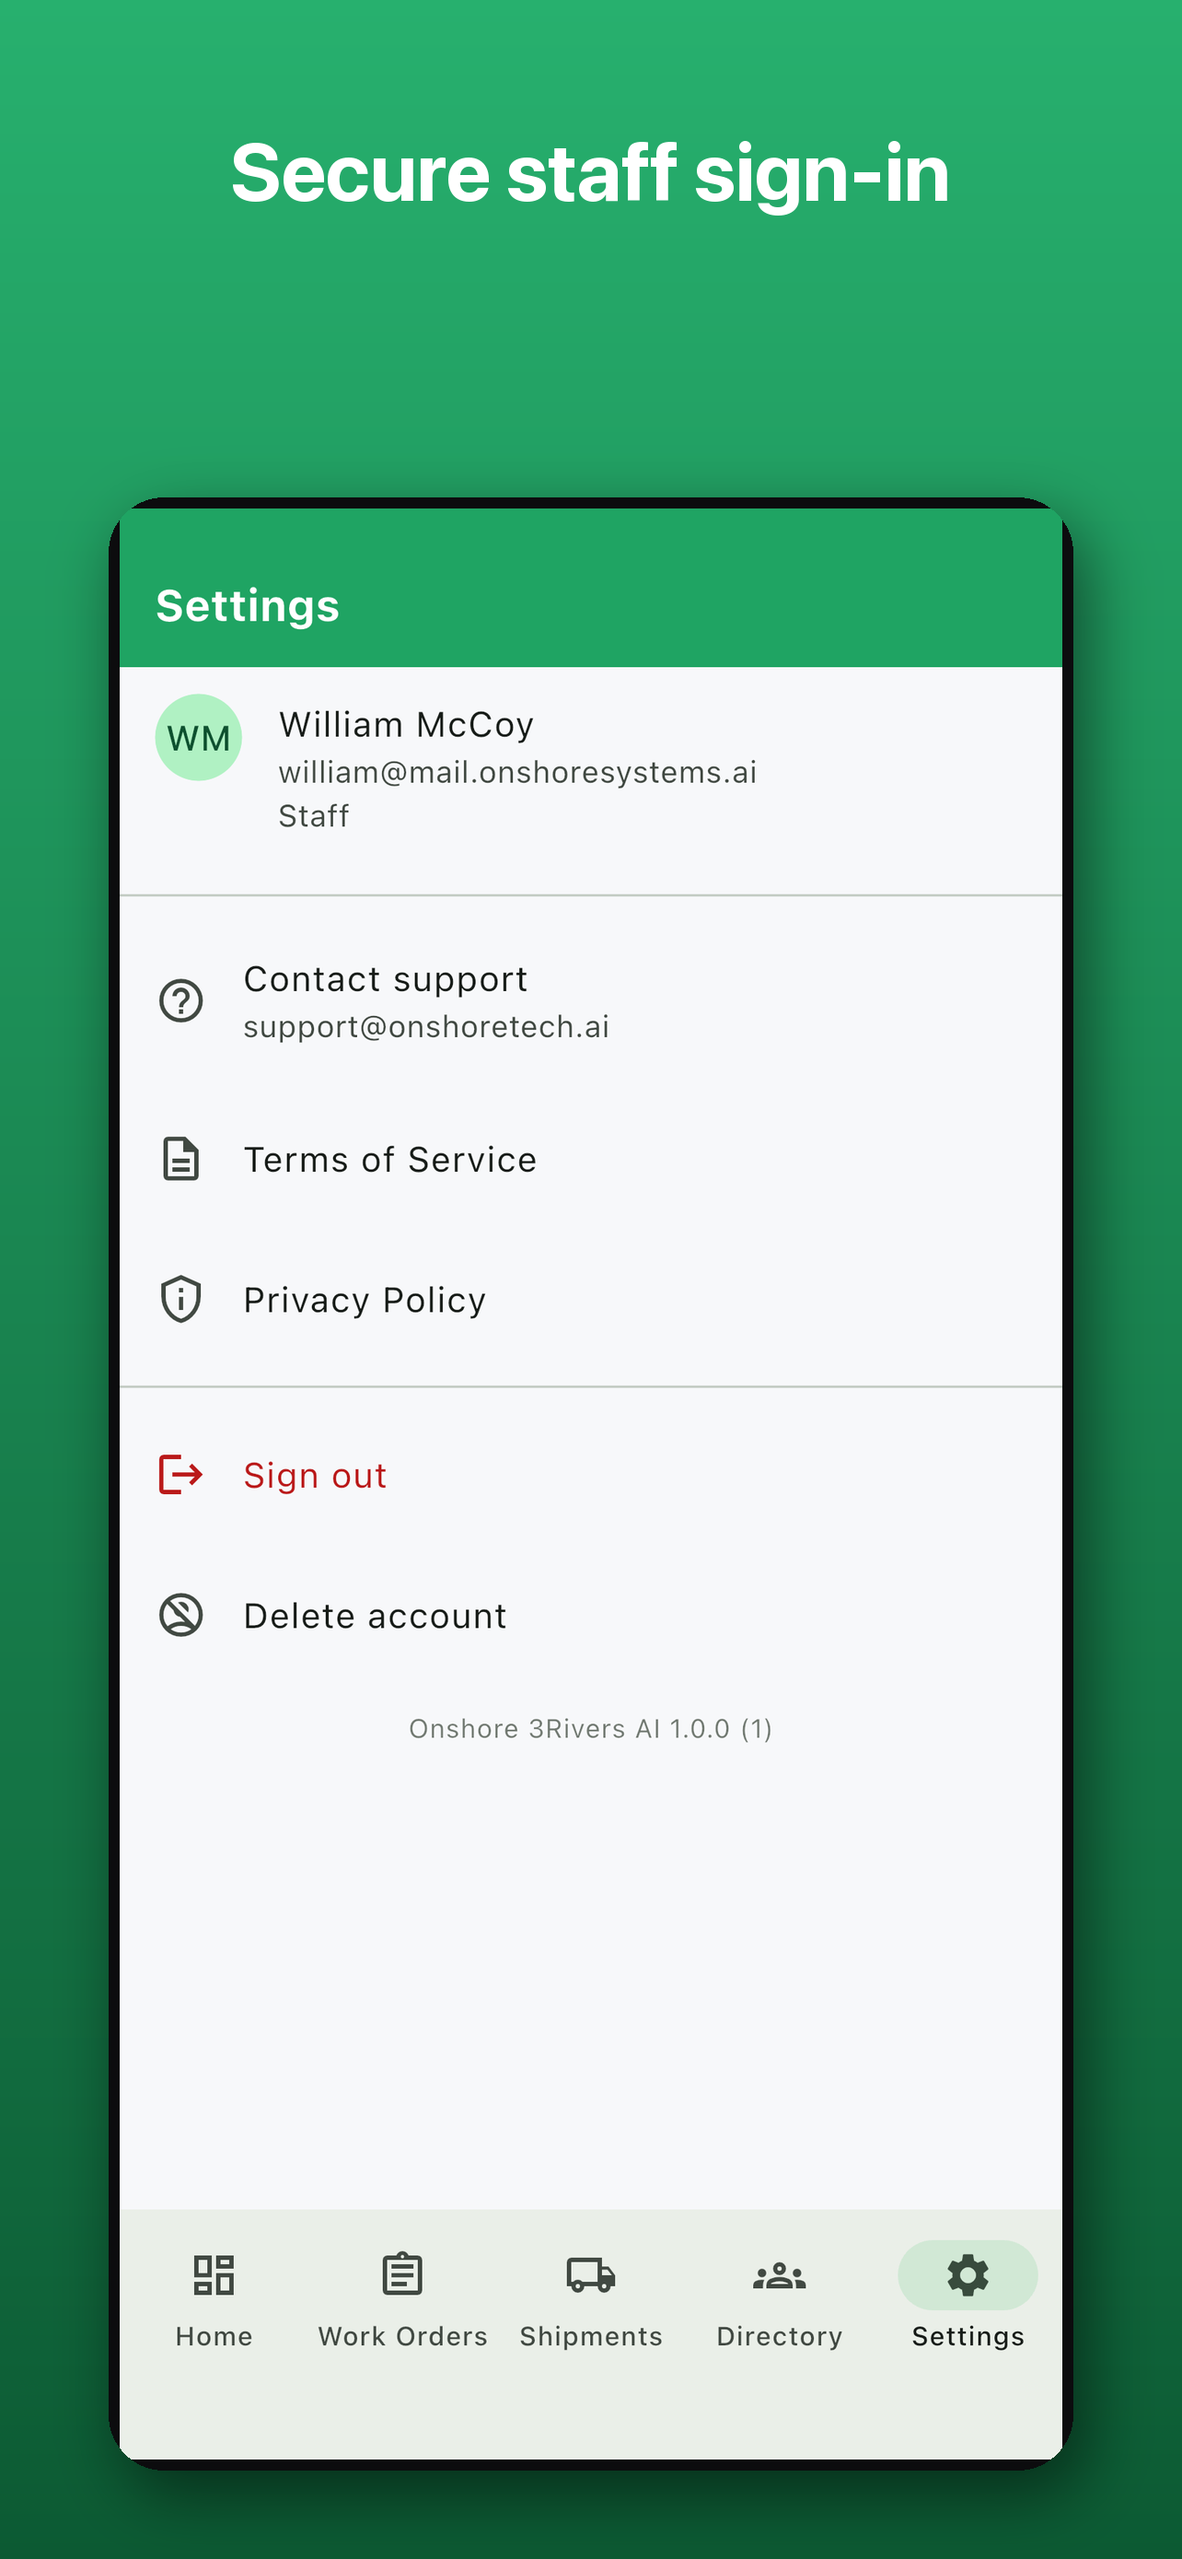
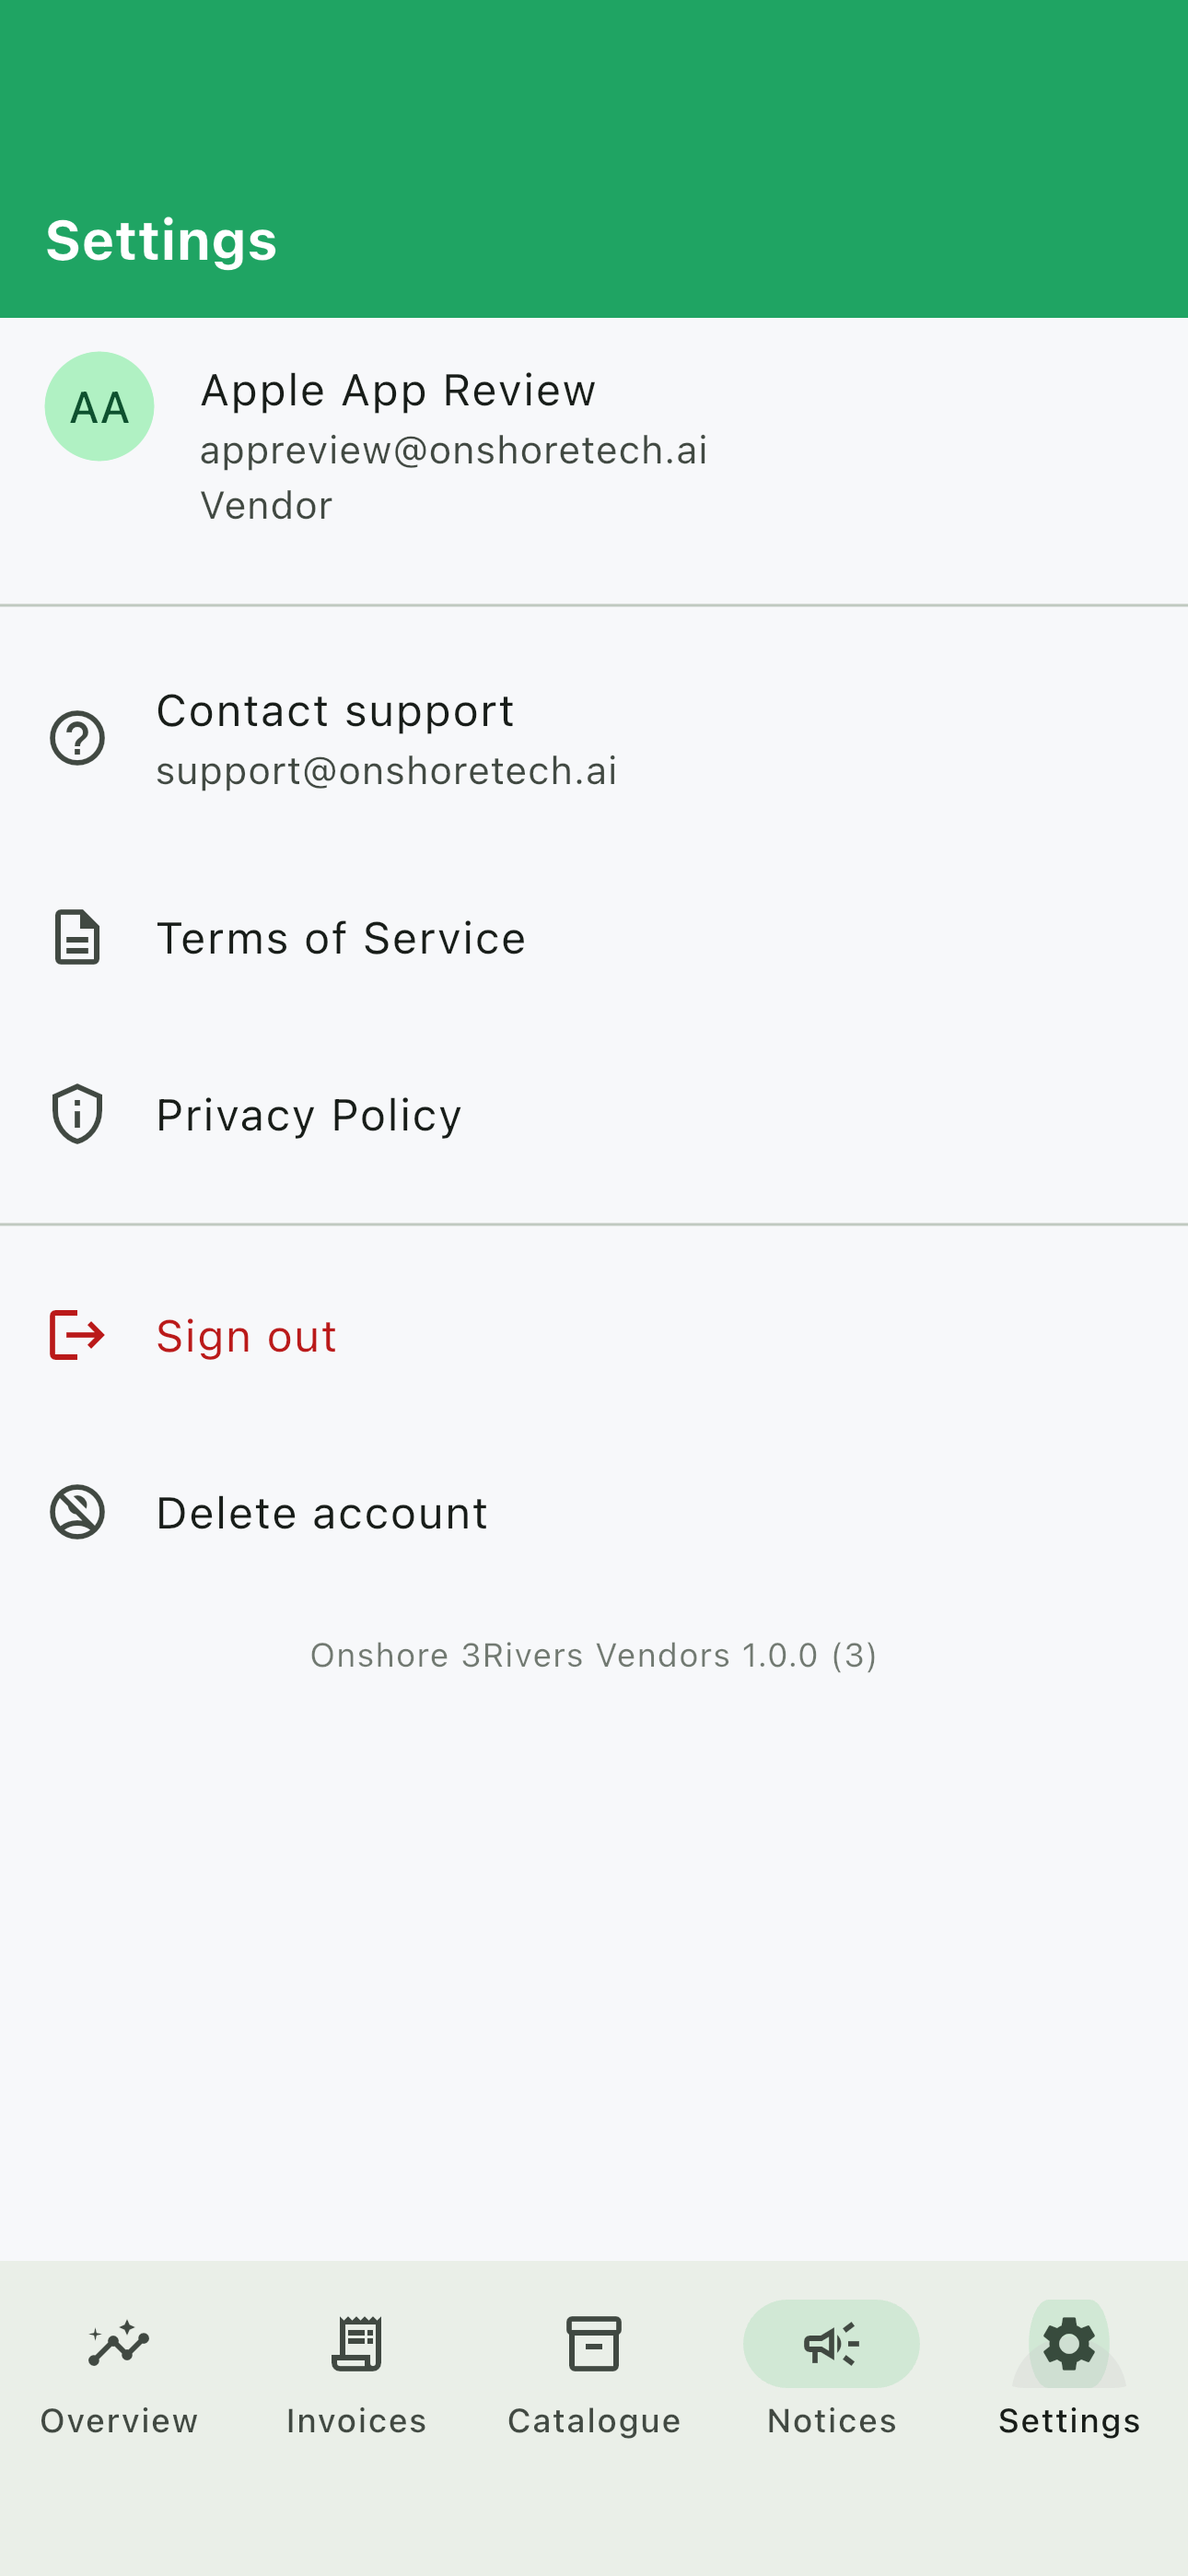
Vendors: stop labelling paid invoices past due
The first walkthrough screenshots showed four settled invoices flagged
red past due. A code comment had rationalised this -- the invoices
endpoint carries no settlement flag, so no paid/unpaid label was shown
-- but that reasoning was wrong. Saying nothing would have been honest;
rendering past due against a paid invoice is an assertion, and a false
one that reads as a broken app.

Payments carry invoice_id, so the screen now loads invoices and
payments together and joins them: settled invoices show Paid and are
excluded from the past-due filter. Confirmed on screen, not just in
assertions -- 0196, 0184 and 0178 now read Paid while 0203, genuinely
unpaid, stays red.

The walkthrough passed both before and after the bug existed, because
it asserted that live data was present without noticing it was
mislabelled. Looking at the screenshot is what caught it.

Also points the app at 3rivers-v.onshoretech.ai: the scaffold still
targeted the staff portal, which would have sent Sanctum tokens to an
API that does not understand them and failed as broken auth rather
than a wrong host.

diff --git a/lib/features/invoices/invoices_screen.dart b/lib/features/invoices/invoices_screen.dart
@@ -13,18 +13,37 @@ class InvoicesScreen extends StatefulWidget {
   State<InvoicesScreen> createState() => _InvoicesScreenState();
 }
 
+/// Invoices plus the set of invoice ids that have a payment against them.
+///
+/// The invoices endpoint carries no settlement flag, and showing "past due"
+/// from the due date alone labelled every settled invoice overdue -- four of
+/// them in the first walkthrough. Payments carry invoice_id, so the two are
+/// joined here rather than leaving the screen to assert something false.
+typedef _Ledger = ({List<Invoice> invoices, Set<String> paidIds});
+
 class _InvoicesScreenState extends State<InvoicesScreen> {
-  late Future<List<Invoice>> _future;
+  late Future<_Ledger> _future;
   bool _pastDueOnly = false;
 
   @override
   void initState() {
     super.initState();
-    _future = context.read<VendorsApi>().invoices();
+    _future = _load();
+  }
+
+  Future<_Ledger> _load() async {
+    final api = context.read<VendorsApi>();
+    final results = await Future.wait([api.invoices(), api.payments()]);
+    final invoices = results[0] as List<Invoice>;
+    final payments = results[1] as List<Payment>;
+    return (
+      invoices: invoices,
+      paidIds: payments.map((p) => p.invoiceId).where((id) => id.isNotEmpty).toSet(),
+    );
   }
 
   Future<void> _reload() {
-    setState(() => _future = context.read<VendorsApi>().invoices());
+    setState(() => _future = _load());
     return _future.then((_) {}, onError: (_) {});
   }
 
@@ -42,20 +61,24 @@ class _InvoicesScreenState extends State<InvoicesScreen> {
           ),
         ],
       ),
-      body: FutureBuilder<List<Invoice>>(
+      body: FutureBuilder<_Ledger>(
         future: _future,
-        builder: (context, snapshot) => AsyncView<List<Invoice>>(
+        builder: (context, snapshot) => AsyncView<_Ledger>(
           snapshot: snapshot,
           onRetry: _reload,
-          isEmpty: (l) => l.isEmpty,
+          isEmpty: (l) => l.invoices.isEmpty,
           emptyState: const EmptyState(
             icon: Icons.receipt_long_outlined,
             title: 'No invoices',
             detail: 'Invoices raised against your account appear here.',
           ),
-          builder: (all) {
-            final items =
-                _pastDueOnly ? all.where((i) => i.isPastDue).toList() : all;
+          builder: (ledger) {
+            bool paid(Invoice i) => ledger.paidIds.contains(i.id);
+            final items = _pastDueOnly
+                ? ledger.invoices
+                    .where((i) => i.isPastDue && !paid(i))
+                    .toList()
+                : ledger.invoices;
 
             // Filtering to an empty result is a different situation from
             // having no invoices at all, and saying so avoids the dead end of
@@ -76,7 +99,8 @@ class _InvoicesScreenState extends State<InvoicesScreen> {
             return ListView.separated(
               itemCount: items.length,
               separatorBuilder: (_, __) => const Divider(height: 1),
-              itemBuilder: (context, i) => _InvoiceTile(invoice: items[i]),
+              itemBuilder: (context, i) =>
+                  _InvoiceTile(invoice: items[i], paid: paid(items[i])),
             );
           },
         ),
@@ -87,12 +111,14 @@ class _InvoicesScreenState extends State<InvoicesScreen> {
 
 class _InvoiceTile extends StatelessWidget {
   final Invoice invoice;
-  const _InvoiceTile({required this.invoice});
+  final bool paid;
+  const _InvoiceTile({required this.invoice, required this.paid});
 
   @override
   Widget build(BuildContext context) {
     final theme = Theme.of(context);
-    final pastDue = invoice.isPastDue;
+    // A settled invoice is never past due, however old its due date.
+    final pastDue = invoice.isPastDue && !paid;
 
     return ListTile(
       contentPadding: const EdgeInsets.symmetric(horizontal: 16, vertical: 8),
@@ -109,26 +135,31 @@ class _InvoiceTile extends StatelessWidget {
             Row(
               children: [
                 Icon(
-                  pastDue
-                      ? Icons.event_busy_outlined
-                      : Icons.event_available_outlined,
+                  paid
+                      ? Icons.check_circle_outline
+                      : pastDue
+                          ? Icons.event_busy_outlined
+                          : Icons.event_available_outlined,
                   size: 15,
-                  color: pastDue
-                      ? theme.colorScheme.error
-                      : theme.colorScheme.onSurfaceVariant,
+                  color: paid
+                      ? theme.colorScheme.primary
+                      : pastDue
+                          ? theme.colorScheme.error
+                          : theme.colorScheme.onSurfaceVariant,
                 ),
                 const SizedBox(width: 5),
                 Text(
-                  // Deliberately "Due", never "Unpaid": the invoices endpoint
-                  // carries no settlement flag, so a paid/unpaid label here
-                  // would be a guess shown as fact.
-                  pastDue
-                      ? 'Due ${shortDate(invoice.dueDate)} - past due'
-                      : 'Due ${shortDate(invoice.dueDate)}',
+                  paid
+                      ? 'Paid'
+                      : pastDue
+                          ? 'Due ${shortDate(invoice.dueDate)} - past due'
+                          : 'Due ${shortDate(invoice.dueDate)}',
                   style: theme.textTheme.bodySmall?.copyWith(
-                    color: pastDue
-                        ? theme.colorScheme.error
-                        : theme.colorScheme.onSurfaceVariant,
+                    color: paid
+                        ? theme.colorScheme.primary
+                        : pastDue
+                            ? theme.colorScheme.error
+                            : theme.colorScheme.onSurfaceVariant,
                   ),
                 ),
               ],

diff --git a/integration_test/walkthrough_test.dart b/integration_test/walkthrough_test.dart
@@ -1,0 +1,88 @@
+import 'package:flutter/material.dart';
+import 'package:flutter_test/flutter_test.dart';
+import 'package:integration_test/integration_test.dart';
+import 'package:onshore_3rivers_vendors/main.dart' as app;
+
+/// Drives the whole app against the LIVE Vendors API and captures a screenshot
+/// per tab. Run with the reviewer credentials:
+///
+///   flutter drive \
+///     --driver=test_driver/integration_test.dart \
+///     --target=integration_test/walkthrough_test.dart \
+///     --dart-define=WALKTHROUGH_USER=... --dart-define=WALKTHROUGH_PASS=... \
+///     -d <simulator id>
+///
+/// Credentials come from --dart-define, never literals: this file is committed.
+void main() {
+  final binding = IntegrationTestWidgetsFlutterBinding.ensureInitialized();
+
+  const user = String.fromEnvironment('WALKTHROUGH_USER');
+  const pass = String.fromEnvironment('WALKTHROUGH_PASS');
+
+  testWidgets('vendor walkthrough', (tester) async {
+    expect(user.isNotEmpty && pass.isNotEmpty, isTrue,
+        reason: 'pass --dart-define=WALKTHROUGH_USER and WALKTHROUGH_PASS');
+
+    app.main();
+    await tester.pumpAndSettle(const Duration(seconds: 5));
+
+    // A persisted session from a previous run lands straight on the shell, so
+    // the login step is conditional rather than assumed -- the Legal and
+    // Educate drives both tripped over exactly this.
+    final fields = find.byType(TextFormField);
+    if (fields.evaluate().isNotEmpty) {
+      await tester.enterText(fields.at(0), user);
+      await tester.pumpAndSettle();
+      await tester.enterText(fields.at(1), pass);
+      await tester.pumpAndSettle();
+      await tester.testTextInput.receiveAction(TextInputAction.done);
+      await tester.pumpAndSettle();
+
+      final signIn = find.byType(FilledButton);
+      if (signIn.evaluate().isNotEmpty) {
+        await tester.tap(signIn.first);
+      }
+      // Real network round trip against production, not a mock.
+      await tester.pumpAndSettle(const Duration(seconds: 12));
+      await binding.takeScreenshot('01-signed-in');
+    }
+
+    // Each tab: open it, let the request settle, prove something real
+    // rendered, then capture.
+    const tabs = <(String, String, String)>[
+      ('Overview', '02-overview', 'Received to date'),
+      ('Invoices', '03-invoices', 'INV-'),
+      ('Catalogue', '04-catalogue', 'CRM-'),
+      ('Notices', '05-notices', ''),
+      ('Settings', '06-settings', ''),
+    ];
+
+    for (final (label, shot, expectText) in tabs) {
+      final destination = find.text(label);
+      expect(destination, findsWidgets, reason: 'no "$label" tab in the nav');
+      await tester.tap(destination.last);
+      await tester.pumpAndSettle(const Duration(seconds: 8));
+
+      if (expectText.isNotEmpty) {
+        // textContaining, not exact: this asserts real API data reached the
+        // screen. An empty list or a spinner would pass a bare "did it not
+        // crash" check, which is the failure mode worth catching.
+        expect(find.textContaining(expectText), findsWidgets,
+            reason: '$label rendered without live data containing "$expectText"');
+      }
+
+      await binding.takeScreenshot(shot);
+    }
+
+    // Tapping a notice opens the detail sheet and marks it read -- the only
+    // write the app performs, and the one the reviewer role is granted for.
+    await tester.tap(find.text('Notices').last);
+    await tester.pumpAndSettle(const Duration(seconds: 6));
+    final notice = find.textContaining('Payment run completed');
+    if (notice.evaluate().isNotEmpty) {
+      await tester.tap(notice.first);
+      await tester.pumpAndSettle(const Duration(seconds: 4));
+      await binding.takeScreenshot('07-notice-detail');
+    }
+  });
+}

diff --git a/lib/core/config/app_config.dart b/lib/core/config/app_config.dart
@@ -27,19 +27,19 @@ class ThreeRiversConfig extends AppConfig {
   const ThreeRiversConfig();
 
   @override
-  String get appName => 'Onshore 3Rivers AI';
+  String get appName => 'Onshore 3Rivers Vendors';
 
   @override
-  String get bundleId => 'ai.onshoretech.onshore-3rivers-ai';
+  String get bundleId => 'ai.onshoretech.3riversv';
 
   @override
   String get supportEmail => 'support@onshoretech.ai';
 
   @override
-  Uri get privacyPolicyUrl => Uri.parse('https://3rivers.onshoretech.ai/privacy');
+  Uri get privacyPolicyUrl => Uri.parse('https://3rivers-v.onshoretech.ai/privacy');
 
   @override
-  Uri get termsUrl => Uri.parse('https://3rivers.onshoretech.ai/terms');
+  Uri get termsUrl => Uri.parse('https://3rivers-v.onshoretech.ai/terms');
 
   @override
   Color get seedColor => const Color(0xFF1FA463); // 3Rivers green

diff --git a/lib/core/config/env.dart b/lib/core/config/env.dart
@@ -4,7 +4,7 @@
 class Env {
   static const String apiBaseUrl = String.fromEnvironment(
     'API_BASE_URL',
-    defaultValue: 'https://3rivers.onshoretech.ai',
+    defaultValue: 'https://3rivers-v.onshoretech.ai',
   );
 
   static const bool friendlyNetworkErrors = bool.fromEnvironment(
